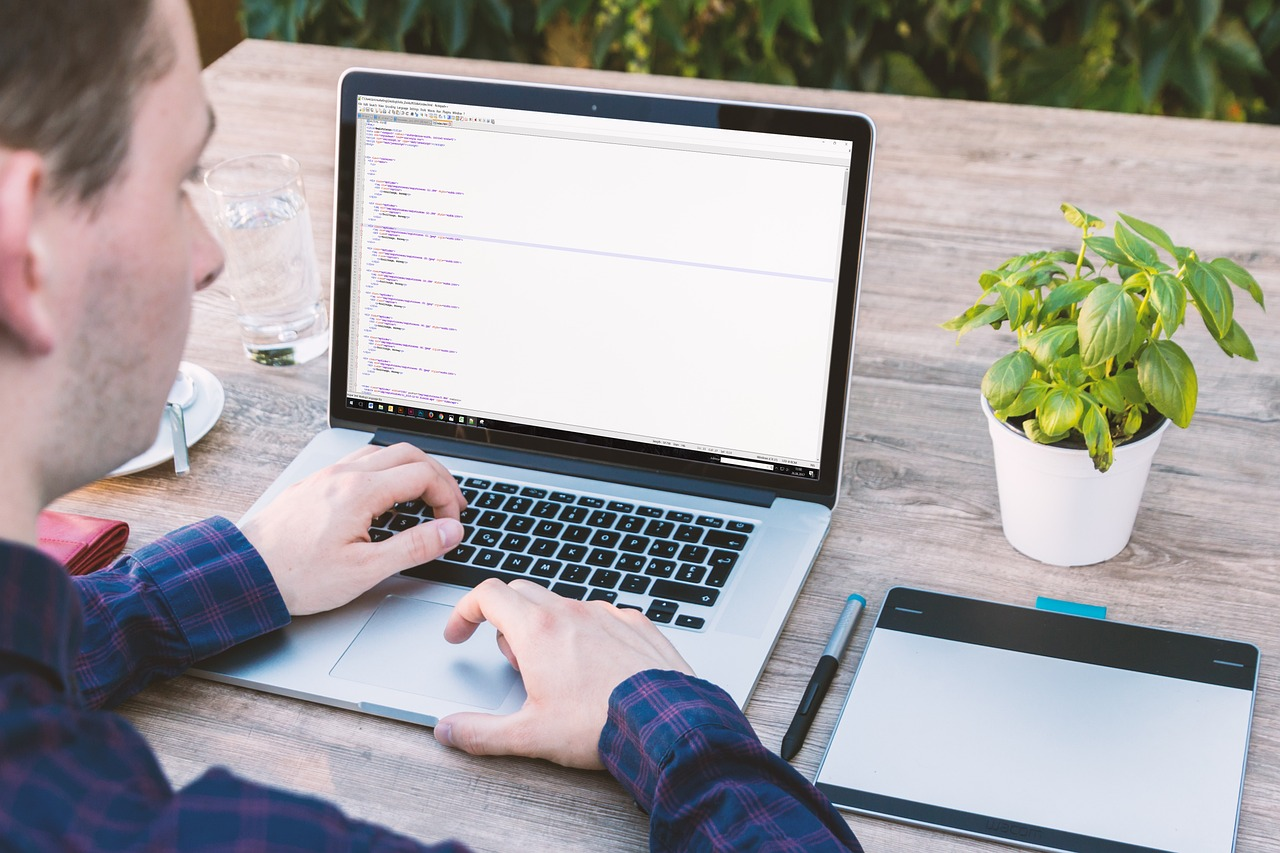
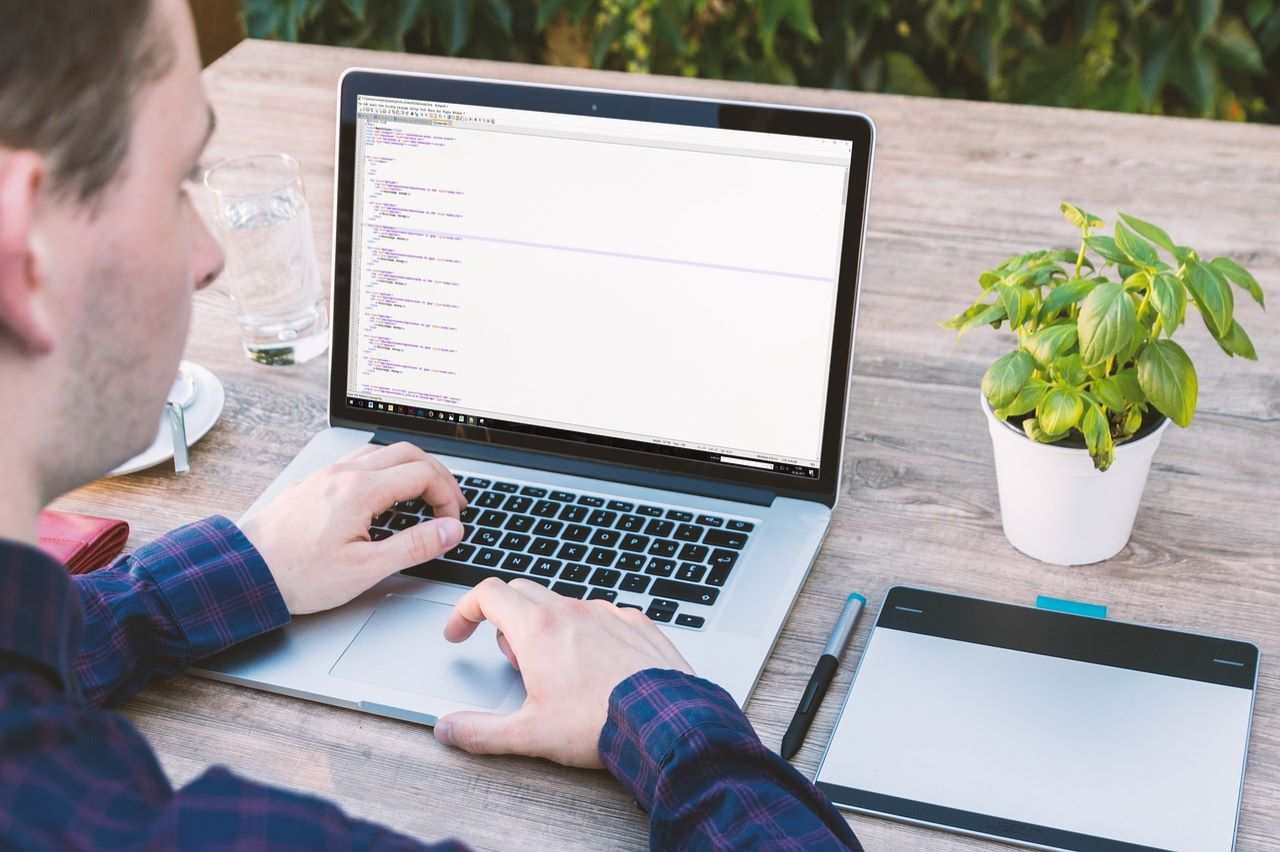
added new classes in html file. added class selectors for each content areas

Changed region(s): [[0.375, 0.5798, 0.5625, 0.7019], [0.2812, 0.4577, 0.3438, 0.4883], [0.5625, 0.5188, 0.5938, 0.5493]]

diff --git a/index.html b/index.html
@@ -24,59 +24,57 @@
         <h2>My Portfolio</h2>
     </div>
     <section id="About-Me">
-        <h3>About Me</h3>
-            <p>1st paragraph about me</p>
+        <div class="abtContent">
+            <h3>About Me</h3>
+            <div>
+                <p>1st paragraph about me.</p>
+                <p>Lorem ipsum dolor sit amet consectetur adipisicing elit.     Voluptatum porro dolorum impedit amet repellendus aliquid dolore repudiandae officiis quibusdam a, distinctio, alias earum. Temporibus saepe cum eum explicabo, ut beatae.</p>
+                <p>Lorem, ipsum dolor sit amet consectetur adipisicing elit. Distinctio, quisquam? Ex placeat debitis non quisquam eum expedita vel. Ad adipisci, a neque saepe qui debitis facilis beatae eos sunt possimus!</p>
+            </div>
+        </div>
     </section>
-    <section id="Work">
-        <h3>Work</h3>
-            <div id="bigImage">
-                <img src="./assets/images/image1.png" alt="two computers">
-                <div class="imageText">
-                    <h4>Project 1</h4>
-                    <p>1st project</p>
+    <section id="work">
+        <div class="wkContent">
+            <h3>Work</h3>
+            <div class="allImages">
+                <div id="bigImage">
+                    <a href="https://github.com/nickrosales/code-refactor-challenge"><img src="./assets/images/image1.png" alt="two computers"></a>
+                    <div class="imageText">
+                        <h4>Project 1</h4>
+                        <p>1st project</p>
+                    </div>
+                </div>
+                <div class="otherImage">
+                    <a href=""><img src="./assets/images/image2.jpg" alt="html on a keyboard"></a>
+                    <div class="imageText">
+                        <h4>Project 2</h4>
+                        <p>2nd project</p>
+                    </div>
+                </div>
+                <div class="otherImage">
+                    <a href=""><img src="./assets/images/image3.jpg" alt="guy working on computer"></a>
+                    <div class="imageText">
+                        <h4>Project 3</h4>
+                        <p>3rd project</p>
+                    </div>
                 </div>
             </div>
-            <div id="otherImage">
-                <img src="./assets/images/image2.jpg" alt="html on a keyboard">
-                <div class="imageText">
-                    <h4>Project 2</h4>
-                    <p>2nd project</p>
-                </div>
-            </div>
-            <div id="otherImage">
-                <img src="./assets/images/image3.jpg" alt="guy working on computer">
-                <div class="imageText">
-                    <h4>Project 3</h4>
-                    <p>3rd project</p>
-                </div>
-            </div>
-            <div id="otherImage">
-                <img src="./assets/images/image4.jpg" alt="laptop next to notes">
-                <div class="imageText">
-                    <h4>Project 4</h4>
-                    <p>4th project</p>
-                </div>
-            </div>
-            <div id="otherImage">
-                <img src="assets/images/image5.jpg" alt="code on a screen">
-                <div class="imageText">
-                    <h4>Project 5</h4>
-                    <p>5th project</p>
-                </div>
-            </div>
+        </div>
     </section>
     <section id="Contact-Me">
-        <h3>Contact Me</h3>
-        <nav>
-            <ul>
-                <li>520-437-9590</li>
-                <li>nickrosales68@gmail.com</li>
-                <li><a href="https://github.com/nickrosales">GitHub</a></li>
-            </ul>
-        </nav>
+        <div class="cmContent">
+            <h3>Contact Me</h3>
+            <nav>
+                <ul>
+                    <li>520-437-9590</li>
+                    <li>nickrosales68@gmail.com</li>
+                    <li><a href="https://github.com/nickrosales">GitHub</a></li>
+                </ul>
+            </nav>
+        </div>
     </section>
     <footer>
-        
+
     </footer>
 </body>
 </html>

diff --git a/assets/styles.css b/assets/styles.css
@@ -1,10 +1,5 @@
-* {
 
-}
-img {
-    max-width: 300px;
-    display: flex;
-}
+
 body {
     font-family: Arial, Helvetica, sans-serif;
 }
@@ -40,19 +35,46 @@ header nav ul li a {
 }
 .sub img {
     max-width: 200px;
-    display: block;
 }
 
 h2 {
     font-size: 250%;
 }
 
-section {
-    display: flex;
-    flex-direction: row;
-    align-items: center;
-}
-
 h3 {
     font-size: 200%;
+}
+
+.abtContent {
+    display: flex;
+    margin-top: 15px;
+    flex-direction: row;
+    justify-content: space-between;
+}
+
+.wkContent {
+    display: flex;
+    margin-top: 15px;
+    flex-direction: row;
+    justify-content: space-between;
+    padding-right: 1500px;
+}
+
+.cmContent {
+    display: flex;
+    margin-top: 15px;
+    flex-direction: row;
+    justify-content: space-between;
+}
+
+.cmContent nav {
+    display: flex;
+    justify-content: space-around;
+    width: 75%;
+}
+.cmContent nav ul {
+    display: flex;
+    justify-content: space-between;
+    min-width: 1000px;
+    align-items: center;
 }
